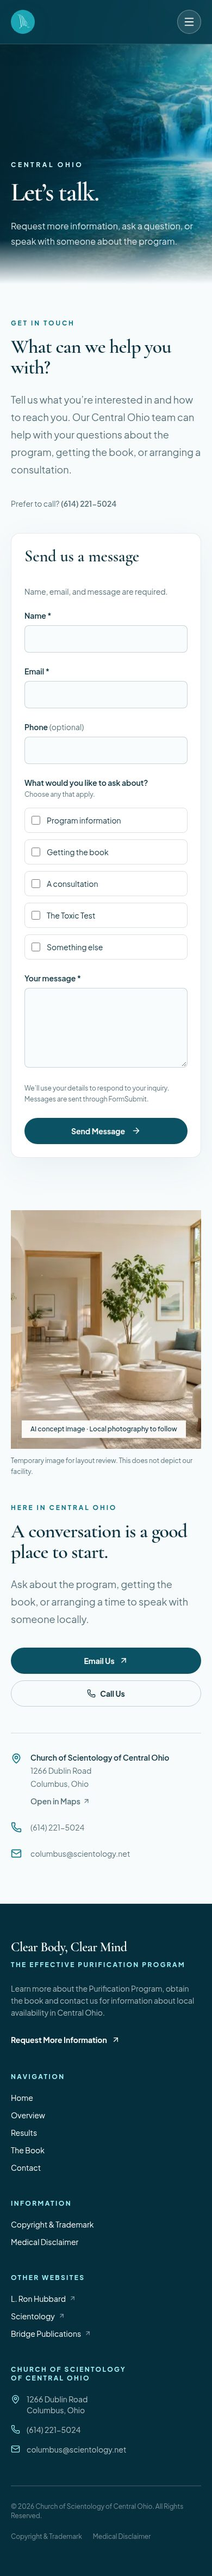
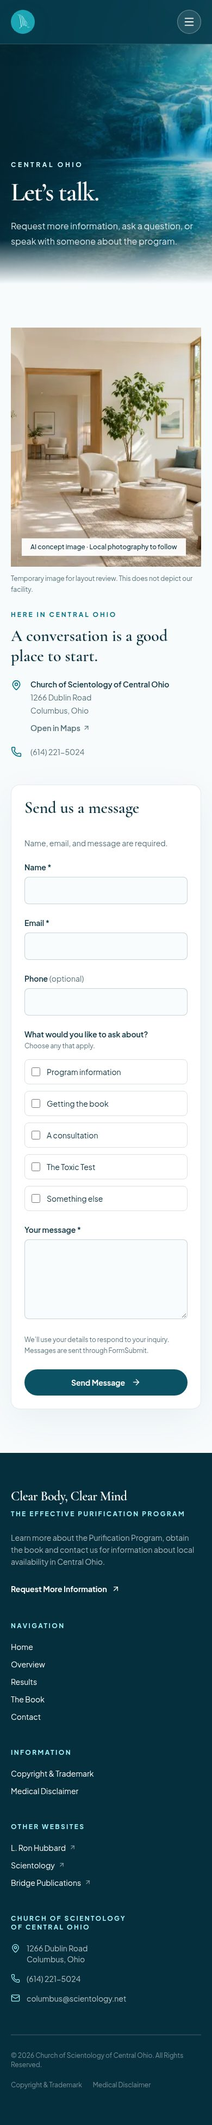
Unify contact photo, local details, and message form

diff --git a/components/contact/LocalContact.tsx b/components/contact/LocalContact.tsx
@@ -1,37 +1,35 @@
 import Image from "next/image";
-import { ArrowUpRight, Mail, MapPin, Phone } from "lucide-react";
+import ContactForm from "@/components/contact/ContactForm";
+import { ArrowUpRight, MapPin, Phone } from "lucide-react";
 
 export default function LocalContact() {
   return (
-    <section className="mx-auto grid w-full max-w-[1440px] gap-12 px-5 py-20 sm:px-8 lg:grid-cols-2 lg:items-center lg:gap-20 lg:px-12 lg:py-28">
-      <figure>
-        <div className="relative aspect-[4/5] overflow-hidden bg-[#e4eff0] sm:aspect-[5/4] lg:aspect-[4/5]">
-          <Image src="/images/placeholders/reception-concept.webp" alt="AI-generated concept of a bright reception lounge; not the Central Ohio facility" fill sizes="(max-width: 1023px) 100vw, 50vw" className="object-cover" />
-          <span className="absolute bottom-5 left-5 right-5 w-fit bg-white/95 px-4 py-2 text-xs font-medium text-[#0c3341]">AI concept image · Local photography to follow</span>
-        </div>
-        <figcaption className="mt-3 text-xs leading-5 text-[#56717a]">Temporary image for layout review. This does not depict our facility.</figcaption>
-      </figure>
+    <section className="mx-auto grid w-full max-w-[1440px] gap-12 px-5 py-20 sm:px-8 lg:grid-cols-2 lg:items-start lg:gap-20 lg:px-12 lg:py-28">
       <div>
-        <p className="text-xs font-bold uppercase tracking-[0.24em] text-[#087487]">Here in Central Ohio</p>
-        <h2 className="mt-4 font-display text-4xl font-semibold leading-[1.05] tracking-[-0.025em] text-[#0c3341] sm:text-5xl lg:text-6xl">A conversation is a good place to start.</h2>
-        <p className="mt-6 max-w-xl text-lg leading-8 text-[#56717a]">Ask about the program, getting the book, or arranging a time to speak with someone locally.</p>
-        <div className="mt-9 flex flex-col gap-3 sm:flex-row">
-          <a href="mailto:columbus@scientology.net?subject=Purification%20Program%20inquiry" className="inline-flex min-h-12 items-center justify-center gap-2 rounded-full bg-[#0c5265] px-6 text-sm font-bold !text-white transition hover:bg-[#087487]">Email Us <ArrowUpRight size={17} /></a>
-          <a href="tel:+16142215024" className="inline-flex min-h-12 items-center justify-center gap-2 rounded-full border border-[#0c5265]/25 px-6 text-sm font-bold text-[#0c5265] transition hover:bg-white"><Phone size={16} /> Call Us</a>
-        </div>
-        <address className="mt-12 space-y-6 border-t border-[#0c3341]/15 pt-8 text-sm not-italic leading-6 text-[#56717a]">
-          <div className="flex gap-4">
-            <MapPin size={20} className="mt-1 shrink-0 text-[#087487]" />
-            <div>
-              <p className="font-semibold text-[#0c3341]">Church of Scientology of Central Ohio</p>
-              <p>1266 Dublin Road<br />Columbus, Ohio</p>
-              <a href="https://www.google.com/maps/search/?api=1&query=Church%20of%20Scientology%201266%20Dublin%20Road%20Columbus%20Ohio" target="_blank" rel="noopener noreferrer" className="mt-2 inline-flex items-center gap-1 font-semibold text-[#087487] underline underline-offset-4">Open in Maps <ArrowUpRight size={14} /><span className="sr-only"> (opens in a new tab)</span></a>
-            </div>
+        <figure>
+          <div className="relative aspect-[4/5] overflow-hidden bg-[#e4eff0] sm:aspect-[5/4]">
+            <Image src="/images/placeholders/reception-concept.webp" alt="AI-generated concept of a bright reception lounge; not the Central Ohio facility" fill sizes="(max-width: 1023px) 100vw, 50vw" className="object-cover" />
+            <span className="absolute bottom-5 left-5 right-5 w-fit bg-white/95 px-4 py-2 text-xs font-medium text-[#0c3341]">AI concept image · Local photography to follow</span>
           </div>
-          <a href="tel:+16142215024" className="flex items-center gap-4"><Phone size={20} className="shrink-0 text-[#087487]" />(614) 221-5024</a>
-          <a href="mailto:columbus@scientology.net" className="flex items-center gap-4"><Mail size={20} className="shrink-0 text-[#087487]" /><span className="break-all">columbus@scientology.net</span></a>
-        </address>
+          <figcaption className="mt-3 text-xs leading-5 text-[#56717a]">Temporary image for layout review. This does not depict our facility.</figcaption>
+        </figure>
+        <div className="mt-7">
+          <p className="text-xs font-bold uppercase tracking-[0.24em] text-[#087487]">Here in Central Ohio</p>
+          <h2 className="mt-3 font-display text-3xl font-semibold leading-tight text-[#0c3341] sm:text-4xl">A conversation is a good place to start.</h2>
+          <address className="mt-5 space-y-5 text-sm not-italic leading-6 text-[#56717a]">
+            <div className="flex gap-4">
+              <MapPin size={20} className="mt-1 shrink-0 text-[#087487]" />
+              <div>
+                <p className="font-semibold text-[#0c3341]">Church of Scientology of Central Ohio</p>
+                <p>1266 Dublin Road<br />Columbus, Ohio</p>
+                <a href="https://www.google.com/maps/search/?api=1&query=Church%20of%20Scientology%201266%20Dublin%20Road%20Columbus%20Ohio" target="_blank" rel="noopener noreferrer" className="mt-2 inline-flex items-center gap-1 font-semibold text-[#087487] underline underline-offset-4">Open in Maps <ArrowUpRight size={14} /><span className="sr-only"> (opens in a new tab)</span></a>
+              </div>
+            </div>
+            <a href="tel:+16142215024" className="flex items-center gap-4"><Phone size={20} className="shrink-0 text-[#087487]" />(614) 221-5024</a>
+          </address>
+        </div>
       </div>
+      <ContactForm />
     </section>
   );
 }

diff --git a/app/contact/page.tsx b/app/contact/page.tsx
@@ -1,5 +1,4 @@
 import type { Metadata } from "next";
-import ContactForm from "@/components/contact/ContactForm";
 import LocalContact from "@/components/contact/LocalContact";
 import Header from "@/components/layout/Header";
 import Footer from "@/components/layout/Footer";
@@ -21,15 +20,6 @@ export default function ContactPage() {
           imageSrc="/images/hero/waterfall-hero.png"
           imageAlt="Calm waterfall and surrounding forest"
         />
-        <section className="mx-auto grid w-full max-w-[1440px] gap-10 px-5 pb-4 pt-16 sm:px-8 lg:grid-cols-[0.65fr_1.35fr] lg:gap-20 lg:px-12 lg:pt-24" aria-labelledby="inquiry-heading">
-          <div className="max-w-lg lg:pt-8">
-            <p className="text-xs font-bold uppercase tracking-[0.24em] text-[#087487]">Get in touch</p>
-            <h2 id="inquiry-heading" className="mt-4 font-display text-4xl font-semibold leading-[1.05] tracking-[-0.025em] text-[#0c3341] sm:text-5xl">What can we help you with?</h2>
-            <p className="mt-6 text-lg leading-8 text-[#56717a]">Tell us what you’re interested in and how to reach you. Our Central Ohio team can help with your questions about the program, getting the book, or arranging a consultation.</p>
-            <p className="mt-8 text-sm leading-7 text-[#56717a]">Prefer to call? <a href="tel:+16142215024" className="whitespace-nowrap font-semibold text-[#087487] underline underline-offset-4">(614) 221-5024</a></p>
-          </div>
-          <ContactForm />
-        </section>
         <LocalContact />
       </main>
       <Footer />

diff --git a/docs/contact-preview.md b/docs/contact-preview.md
@@ -25,3 +25,7 @@ Required: name, email, message. Optional: phone and multiple inquiry topics (pro
 Messages are sent directly to FormSubmit for forwarding to `columbus@scientology.net`, matching the Visit website. There is no local database. Confirm recipient activation if FormSubmit requests it and verify inbox receipt before launch. An accepted API response alone does not prove delivery. No real emails were sent during this implementation.
 
 Mocked Chromium checks passed for required/whitespace/email validation, consultation preselection, selected topics and contact payload, disabled fields while sending, rejection preserving entries, successful acceptance/reset, and desktop/mobile overflow. Production build, ESLint, and TypeScript passed. Screenshots above show the updated form.
+
+## Unified contact layout
+
+Photo and local address, map, and phone links now share the left column; the message form sits beside them on the right. On mobile they stack in that order. Removed the separate introductory contact block and redundant Email Us / Call Us buttons. Email remains available through the shared footer and form error fallback.
